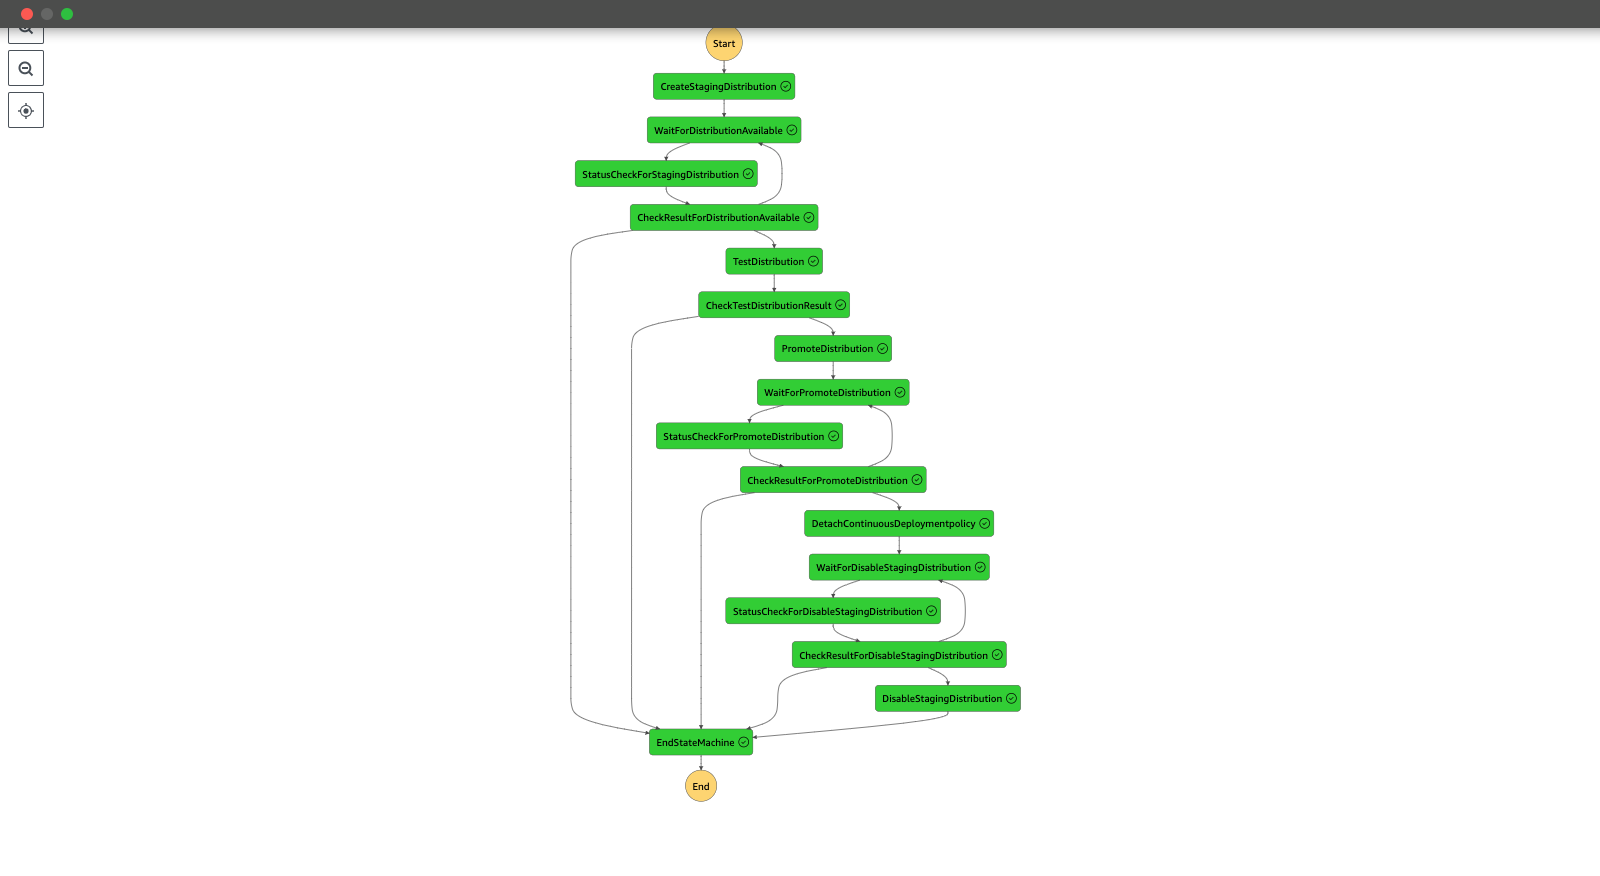
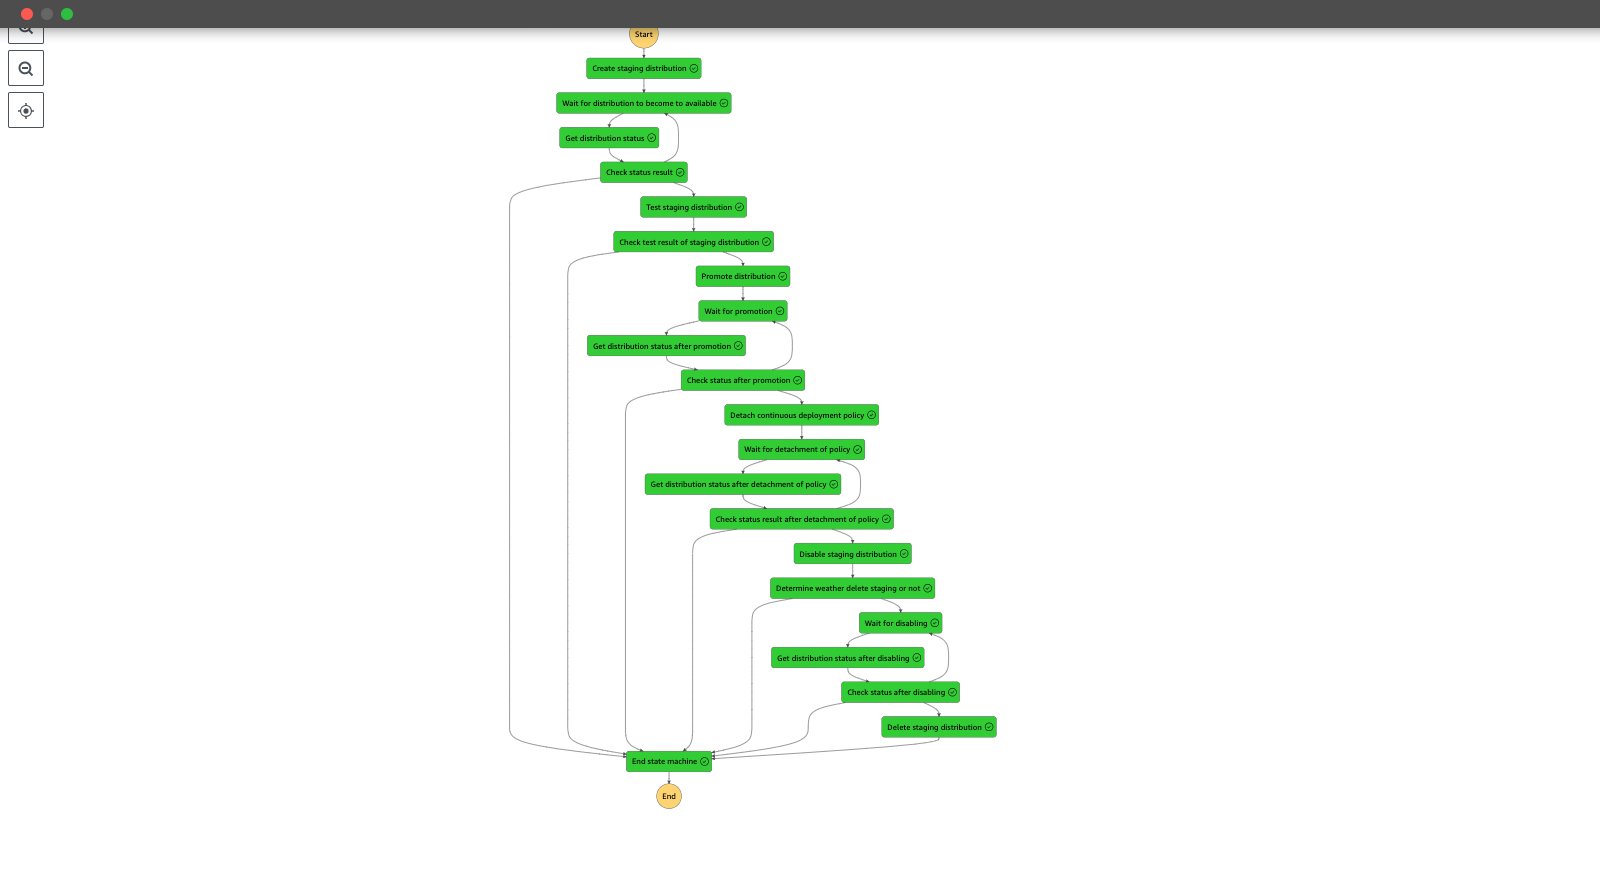
update: delete staging 機能を追加

Changed region(s): [[0.3438, 0.0308, 0.6562, 0.9247]]

diff --git a/functions/delete_staging_distribution/app.py b/functions/delete_staging_distribution/app.py
@@ -1,0 +1,20 @@
+import boto3
+from botocore.config import Config
+
+
+config = Config(retries={"max_attempts": 10, "mode": "standard"})
+cloudfront = boto3.client("cloudfront", config=config)
+
+
+def lambda_handler(event, context):
+    payload = event["Payload"]
+    staging_distribution_id = payload["StagingDistributionId"]
+    staging_distribution_etag = cloudfront.get_distribution_config(
+        Id=staging_distribution_id
+    )["ETag"]
+
+    cloudfront.delete_distribution(
+        Id=staging_distribution_id, IfMatch=staging_distribution_etag
+    )
+
+    return {"Payload": payload}
